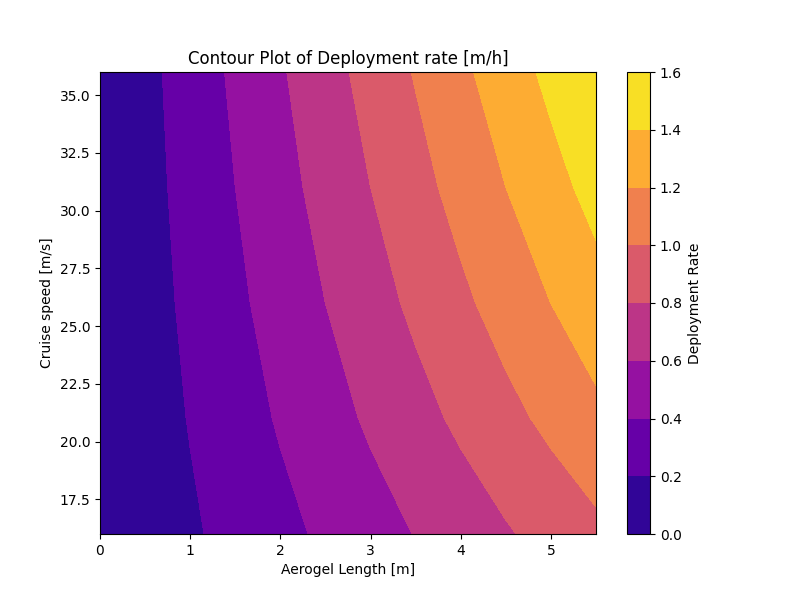
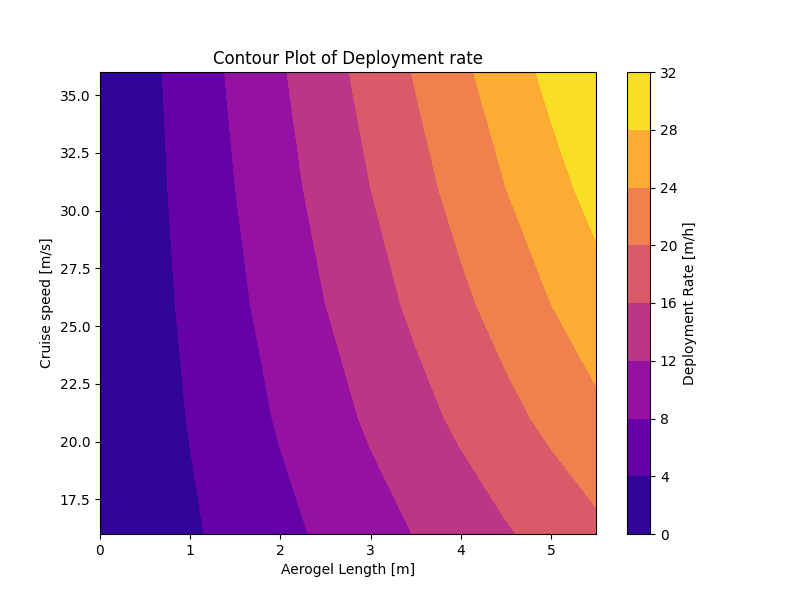
blablabla

diff --git a/PreliminaryDesign/performance_analysis.py b/PreliminaryDesign/performance_analysis.py
@@ -106,6 +106,8 @@ def swarm_deployment_plot(V_range, l_range, inputs):
     '''
     grid = []
     res = []
+    inputs['P_r_VTOL'] = 4423
+    inputs['P_r_FW'] = 1554
     for V in V_range:
         for l in l_range:
             current_inputs = inputs.copy()
@@ -131,11 +133,11 @@ def swarm_deployment_plot(V_range, l_range, inputs):
 
     plt.figure(figsize=(8, 6))
     cp = plt.contourf(X, Y, Z, cmap='plasma')
-    plt.colorbar(cp, label='Deployment Rate')
+    plt.colorbar(cp, label='Deployment Rate [m/h]')
 
     plt.xlabel('Aerogel Length [m]')
     plt.ylabel('Cruise speed [m/s]')
-    plt.title('Contour Plot of Deployment rate [m/h]')
+    plt.title('Contour Plot of Deployment rate')
     plt.savefig('PreliminaryDesign\Plots\swarm_deployment.png')
 
 
@@ -143,9 +145,9 @@ def swarm_deployment_plot(V_range, l_range, inputs):
 
 
 if __name__ == '__main__':
-    AR_range_diagram(np.arange(6, 13),np.arange(15000, 35001, 1000), integration_optimization, inputs)
-    # cruise_speed_mass_diagram(np.arange(int(50/3.6), int(150/3.6), 2), inputs, integration_optimization)
-    payload_range_diagram(np.arange(0, 6.5, 0.5), np.arange(15000, 35001, 1000), integration_optimization, inputs)
+    # AR_range_diagram(np.arange(6, 13),np.arange(15000, 35001, 1000), integration_optimization, inputs)
+    # # cruise_speed_mass_diagram(np.arange(int(50/3.6), int(150/3.6), 2), inputs, integration_optimization)
+    # payload_range_diagram(np.arange(0, 6.5, 0.5), np.arange(15000, 35001, 1000), integration_optimization, inputs)
     
     swarm_deployment_plot(np.arange(int(60/3.6), int(150/3.6), 5), np.arange(0, 6, 0.5), inputs)
 

diff --git a/PreliminaryDesign/integration.py b/PreliminaryDesign/integration.py
@@ -70,7 +70,7 @@ mission_parameters = {
     "rho_max": 1.225, 
     "RC_service": 0.5,
     "h_service": 3000,
-    "R_max": 20000, #30000
+    "R_max": 5000, #30000
     "V_climb_v": 6, 
     "V_cruise": 100/3.6, 
     "V_descent": 3,
@@ -79,7 +79,7 @@ mission_parameters = {
     "fire_break_width": 3, # m
     "n_drones": 20,
     "n_nests": 1,
-    "aerogel_length": 5,
+    "aerogel_length": 3.32,
     "aerogel_width": 1.5,
     "aerogel_thickness": 0.1,
     "total_mission_time": 60*60, # total mission time in seconds
@@ -203,7 +203,7 @@ V_range = np.arange(40, 70, 2)
 
 tolerance = 1
 max_iterations = 200
-relevant = ['M_to', 'S_wing', 'b_wing', 'R_max', 'propeller_diameter', 'M_battery', 'swarm_deployment_rate']
+relevant = ['M_to', 'S_wing', 'b_wing', 'R_max', 'propeller_diameter', 'M_battery', 'swarm_deployment_rate', 'P_r_VTOL', 'P_r_FW']
 
 doesnt_converge = set()
 def integration_optimization(tolerance: float, max_iterations: int, inputs: dict[str, float | int]) -> tuple[dict[str, float | int], dict[str, list[float]]]:
